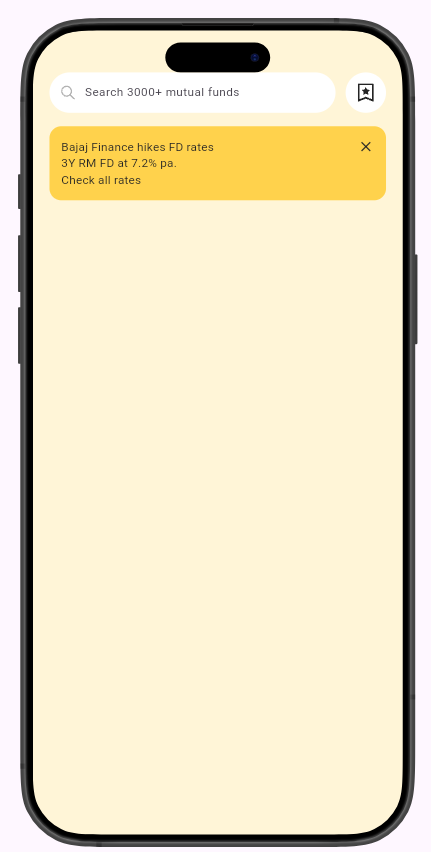
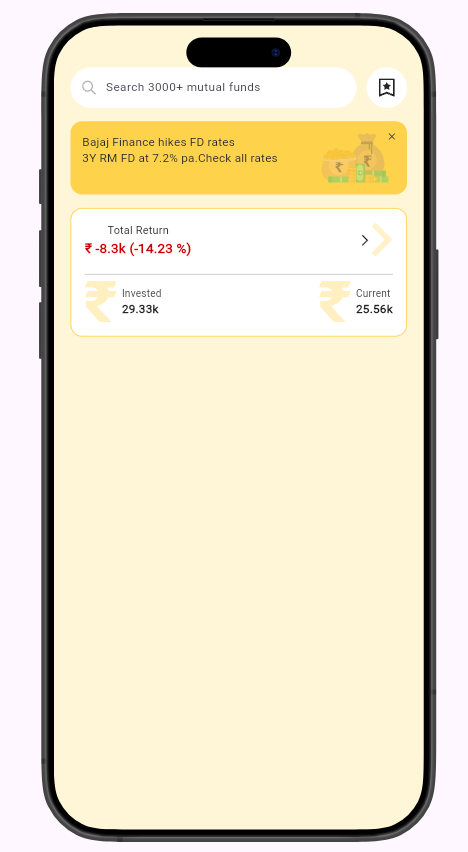
investment card + navigation

Changed region(s): [[0.0302, 0.0, 0.9954, 1.0]]

diff --git a/lib/Home/portfolio_card_widget.dart b/lib/Home/portfolio_card_widget.dart
@@ -1,0 +1,107 @@
+import 'package:flutter/material.dart';
+import 'package:flutter_svg/flutter_svg.dart';
+
+import '../MyInvestment/MyInvestment.dart';
+import '../utils/colors.dart';
+
+class PortfolioCardWidget extends StatelessWidget {
+  const PortfolioCardWidget({super.key});
+
+  @override
+  Widget build(BuildContext context) {
+    return InkWell(
+      borderRadius: BorderRadius.circular(14),
+      onTap: () {
+        Navigator.push(
+          context,
+          MaterialPageRoute(builder: (context) => const MyInvestment()),
+        );
+      },
+      child: Container(
+        padding: const EdgeInsets.all(16),
+        decoration: BoxDecoration(
+          color: AppColors.card,
+          borderRadius: BorderRadius.circular(14),
+          border: Border.all(color: AppColors.primary),
+        ),
+        child: Column(
+          crossAxisAlignment: CrossAxisAlignment.start,
+          children: [
+            Row(
+              mainAxisAlignment: MainAxisAlignment.spaceBetween,
+              children: [
+                const Column(
+                  children: [
+                    Text(
+                      "Total Return",
+                      style: TextStyle(fontSize: 13, color: AppColors.textDark),
+                    ),
+                    const Text(
+                      "₹ -8.3k (-14.23 %)",
+                      style: TextStyle(
+                        fontSize: 16,
+                        fontWeight: FontWeight.w600,
+                        color: AppColors.negative,
+                      ),
+                    ),
+                  ],
+                ),
+                Row(
+                  children: [
+                    Icon(Icons.arrow_forward_ios, size: 16),
+                    SvgPicture.asset('assets/Vector (4).svg'),
+                  ],
+                ),
+              ],
+            ),
+
+            const SizedBox(height: 12),
+            const Divider(),
+
+            Row(
+              mainAxisAlignment: MainAxisAlignment.spaceBetween,
+              children: const [
+                AmountColumn(title: "Invested", value: "29.33k"),
+                AmountColumn(title: "Current", value: "25.56k"),
+              ],
+            ),
+          ],
+        ),
+      ),
+    );
+  }
+}
+
+class AmountColumn extends StatelessWidget {
+  final String title;
+  final String value;
+
+  const AmountColumn({required this.title, required this.value});
+
+  @override
+  Widget build(BuildContext context) {
+    return Row(
+      children: [
+        SvgPicture.asset('assets/rupee.svg'),
+        const SizedBox(width: 6),
+        Column(
+          crossAxisAlignment: CrossAxisAlignment.start,
+          children: [
+            Text(
+              title,
+              style: const TextStyle(fontSize: 12, color: AppColors.textMedium),
+            ),
+            Text(
+              value,
+              style: const TextStyle(
+                fontSize: 14,
+                fontWeight: FontWeight.w600,
+                color: AppColors.textDark,
+              ),
+            ),
+          ],
+        ),
+      ],
+    );
+  }
+}

diff --git a/lib/MyInvestment/MyInvestment.dart b/lib/MyInvestment/MyInvestment.dart
@@ -1,0 +1,23 @@
+import 'package:flutter/material.dart';
+
+class MyInvestment extends StatelessWidget {
+  const MyInvestment({super.key});
+
+  @override
+  Widget build(BuildContext context) {
+    return Scaffold(
+      appBar: AppBar(
+        title: const Text(
+          "My Portfolio",
+          style: TextStyle(color: Color(0xFF242424)),
+        ),
+        backgroundColor: const Color(0xFFFFD24C),
+        iconTheme: const IconThemeData(color: Color(0xFF242424)),
+        elevation: 0,
+      ),
+      body: const Center(
+        child: Text("Portfolio Details Screen", style: TextStyle(fontSize: 16)),
+      ),
+    );
+  }
+}

diff --git a/lib/Home/Dashboard.dart b/lib/Home/Dashboard.dart
@@ -1,5 +1,6 @@
 import 'package:flutter/material.dart';
 import 'package:task1/Home/SearchbarWidget.dart';
+import 'package:task1/Home/portfolio_card_widget.dart';
 
 import '../utils/colors.dart';
 import 'AdsCardWidget.dart';
@@ -19,6 +20,8 @@ class Dashboard extends StatelessWidget {
               SearchBarWidget(),
               SizedBox(height: 16),
               AdsCardWidget(),
+              SizedBox(height: 16),
+              PortfolioCardWidget(),
             ],
           ),
         ),

diff --git a/lib/Home/AdsCardWidget.dart b/lib/Home/AdsCardWidget.dart
@@ -47,7 +47,7 @@ class _AdsCardWidgetState extends State<AdsCardWidget> {
                 isVisible = false;
               });
             },
-            child: const Icon(Icons.close, size: 20, color: AppColors.textDark),
+            child: SvgPicture.asset('assets/Vector (5).svg'),
           ),
         ],
       ),
